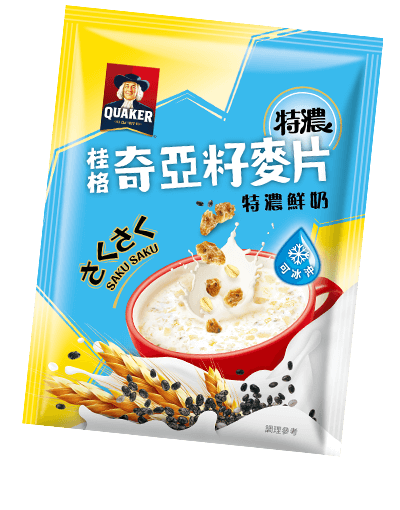
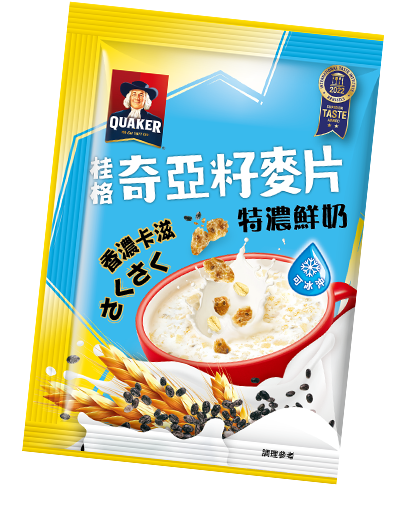
update main 01 product

diff --git a/index.html b/index.html
@@ -141,7 +141,7 @@
               <div class="shadow"></div>
             </div>
             <div class="m_dot02" dot="2">
-              <img style="width: 90%" src="" ds="images/product02.png" alt="奇亞籽特濃重乳鮮奶茶">
+              <img style="width: 90%" src="" ds="images/product02.png" alt="奇亞籽特濃豐盛莓果">
               <div class="new"></div>
               <div class="shadow" style="margin-top: 0px"></div>
             </div>
@@ -150,13 +150,13 @@
               <div class="shadow"></div>
             </div>
             <div class="m_dot04" dot="4">
-              <img src="" ds="images/product04.png" alt="奇亞籽特濃重乳鮮奶茶">
+              <img src="" ds="images/product04.png" alt="豐盛莓果">
               <div class="shadow"></div>
             </div>
           </div>
           <div class="item_box">
             <div class="items">
-              <div class="item01 active">
+              <div class="item01">
                 <!-- <div class="main-character"></div> -->
                 <div class="i01"></div>
                 <div class="bg"></div>
@@ -176,7 +176,7 @@
                 <div class="i01"></div>
                 <div class="bg"></div>
                 <div class="img">
-                  <div class="product02" style="background-image: url(./images/product02.png); "></div>
+                  <img src="" ds="images/product02.png" alt="奇亞籽特濃鮮奶減糖">
                   <div class="shadow" style="margin-top: 10px;"></div>
                 </div>
                 <div class="info_box">
@@ -203,15 +203,16 @@
                   <div class="links"><a href="https://mall.sfworldwide.com/allfuction/product/quakercereal/aio.html?utm_source=quakercereal.sfworldwide&utm_medium=referral&utm_campaign=button" target="_blank"><img src="" ds="images/pp_link01.png" alt=""></a><a href="https://www.momoshop.com.tw/category/DgrpCategory.jsp?d_code=2127400035&amp;p_orderType=6&amp;showType=chessboardType" target="_blank"><img src="" ds="images/pp_link02.png" alt=""></a><a href="https://tw.buy.yahoo.com/?catid=15453" target="_blank"><img src="" ds="images/pp_link04.png" alt=""></a><a href="https://24h.pchome.com.tw/store/DBBW1M" target="_blank"><img src="" ds="images/pp_link03.png" alt=""></a><a href="https://shop.everydayhealth.com.tw/collections/standardfoods" target="_blank"><img src="" ds="images/pp_link05.png" alt=""></a></div>
                 </div>
               </div>
-              <div class="item04">
+              <div class="item04 active">
                 <div class="i01"></div>
                 <div class="bg"></div>
-                <div class="img"><img src="" ds="images/product04.png" alt="奇亞籽特濃重乳鮮奶茶">
+                <div class="img">
+                  <div class="product04" style="background-image: url(./images/product04.png); "></div>
                   <div class="shadow"></div>
                 </div>
                 <div class="info_box">
-                  <h2>重乳鮮奶茶</h2>
-                  <p>•重乳鮮奶茶口味，奶茶香氣搭配奇亞籽膳食纖維與多元穀物營養，給你療癒滿滿一整天!</p>
+                  <h2>豐盛莓果</h2>
+                  <p>•繽紛的豐盛莓果口味，沒果酸甜滋味搭配濃厚奶香，絕對給你滿滿的療癒感！</p>
                   <p>•奇亞籽營養與美味麥片的完美結合，口口驚奇，能量滿格！</p>
                   <p>•冰沖熱沖隨心所欲，即刻滿足好活力！</p>
                   <p>•選穀選桂格，十五大安心保證最用心</p>
@@ -220,7 +221,7 @@
               </div>
             </div>
             <div class="dots">
-              <div class="dot01 active" dot="1">
+              <div class="dot01" dot="1">
                 <div class="bg"></div>
                 <div class="img"><img src="" ds="images/product01.png" alt="特濃鮮奶">
                   <div class="shadow"></div>
@@ -233,7 +234,8 @@
               <div class="dot02" dot="2">
                 <div class="bg"></div>
                 <div class="img">
-                  <div class="product02" style="background-image: url(./images/product02.png); "></div>
+                  <img src="" ds="images/product02.png" alt="特濃鮮奶減糖">
+                  <!-- <div class="product02" style="background-image: url(./images/product02.png); "></div> -->
                   <div class="shadow"></div>
                 </div>
                 <div class="name">
@@ -251,13 +253,14 @@
                   <div class="arr"></div>
                 </div>
               </div>
-              <div class="dot04" dot="4">
+              <div class="dot04 active" dot="4">
                 <div class="bg"></div>
-                <div class="img"><img src="" ds="images/product04.png" alt="重乳鮮奶茶">
+                <div class="img">
+                  <div class="product04" style="background-image: url(./images/product04.png); "></div>
                   <div class="shadow"></div>
                 </div>
                 <div class="name">
-                  <p>重乳鮮奶茶</p>
+                  <p>豐盛莓果</p>
                   <div class="arr"></div>
                 </div>
               </div>

diff --git a/css/index.css b/css/index.css
@@ -1283,6 +1283,9 @@ section#product [class^=main] [class^=item_box] {
   z-index: 1;
   margin-top: 30px;
 }
+section#product [class^=main] [class^=item_box] .items {
+  height: 500px;
+}
 @media only screen and (max-width: 1000px) {
   section#product [class^=main] [class^=item_box] .items {
     height: 663px;
@@ -1323,12 +1326,6 @@ section#product [class^=main] [class^=item_box] .items [class^=item]::after {
   content: "";
   display: block;
   clear: both;
-}
-section#product [class^=main] [class^=item_box] .items [class^=item] .main-character {
-  position: absolute;
-  background-image: url(../images/product_main01_character.png);
-  background-repeat: no-repeat;
-  background-size: contain;
 }
 section#product [class^=main] [class^=item_box] .items [class^=item] .i01 {
   width: 1574px;
@@ -1502,7 +1499,7 @@ section#product [class^=main] [class^=item_box] .items [class^=item] .img {
 section#product [class^=main] [class^=item_box] .items [class^=item] .img img {
   width: 100%;
 }
-section#product [class^=main] [class^=item_box] .items [class^=item] .img .product02 {
+section#product [class^=main] [class^=item_box] .items [class^=item] .img .product04 {
   background-repeat: no-repeat;
   background-size: contain;
   background-position: top;
@@ -1511,12 +1508,12 @@ section#product [class^=main] [class^=item_box] .items [class^=item] .img .produ
   position: relative;
 }
 @media only screen and (max-width: 1400px) {
-  section#product [class^=main] [class^=item_box] .items [class^=item] .img .product02 {
+  section#product [class^=main] [class^=item_box] .items [class^=item] .img .product04 {
     width: 340px;
     height: 408px;
   }
 }
-section#product [class^=main] [class^=item_box] .items [class^=item] .img .product02::after {
+section#product [class^=main] [class^=item_box] .items [class^=item] .img .product04::after {
   content: "";
   position: absolute;
   z-index: 10;
@@ -1684,7 +1681,7 @@ section#product [class^=main] [class^=item_box] .dots {
   text-align: center;
   position: relative;
   z-index: 4;
-  margin-top: 80px;
+  margin-top: 140px;
 }
 @media only screen and (max-width: 1000px) {
   section#product [class^=main] [class^=item_box] .dots {
@@ -1805,6 +1802,24 @@ section#product [class^=main] [class^=item_box] .dots [class^=dot].dot03 .name .
 }
 section#product [class^=main] [class^=item_box] .dots [class^=dot].dot04 .bg {
   background-image: url(../images/product_dot04.png);
+}
+section#product [class^=main] [class^=item_box] .dots [class^=dot].dot04 .img .product04 {
+  background-repeat: no-repeat;
+  background-size: contain;
+  background-position: top;
+  width: 195.2px;
+  height: 263px;
+  position: relative;
+}
+section#product [class^=main] [class^=item_box] .dots [class^=dot].dot04 .img .product04::after {
+  content: "";
+  position: absolute;
+  bottom: 0px;
+  right: -25px;
+  width: 94px;
+  height: 89px;
+  background: url(../images/new.png) no-repeat center/contain;
+  transform: rotate(45deg);
 }
 section#product [class^=main] [class^=item_box] .dots [class^=dot].dot04 .name p {
   color: #e60012;

diff --git a/css/index.sass b/css/index.sass
@@ -889,6 +889,7 @@ section#product
             z-index: 1
             margin-top: 30px
             .items
+                height: 500px
                 +rwd(1000px)
                     height: 663px
                 +rwd(750px)
@@ -915,11 +916,6 @@ section#product
                         content: ""
                         display: block
                         clear: both
-                    .main-character
-                        position: absolute
-                        background-image: url(../images/product_main01_character.png)
-                        background-repeat: no-repeat
-                        background-size: contain   
                     .i01
                         width: 1574px
                         height: 710px
@@ -1040,7 +1036,7 @@ section#product
                             display: none
                         img
                             width: 100%
-                        .product02
+                        .product04
                             background-repeat: no-repeat
                             background-size: contain
                             background-position: top
@@ -1176,7 +1172,7 @@ section#product
                 text-align: center
                 position: relative
                 z-index: 4
-                margin-top: 80px
+                margin-top: 140px
                 +rwd(1000px)
                     display: none
                 [class^="dot"]
@@ -1281,6 +1277,23 @@ section#product
                     &.dot04
                         .bg
                             background-image: url(../images/product_dot04.png)
+                        .img
+                            .product04
+                                background-repeat: no-repeat
+                                background-size: contain
+                                background-position: top
+                                width: 195.2px
+                                height: 263px
+                                position: relative
+                                &::after
+                                    content: ""
+                                    position: absolute
+                                    bottom: 0px
+                                    right: -25px
+                                    width: 94px
+                                    height: 89px
+                                    background: url(../images/new.png) no-repeat center/contain
+                                    transform: rotate(45deg)
                         .name
                             p
                                 color: #e60012
